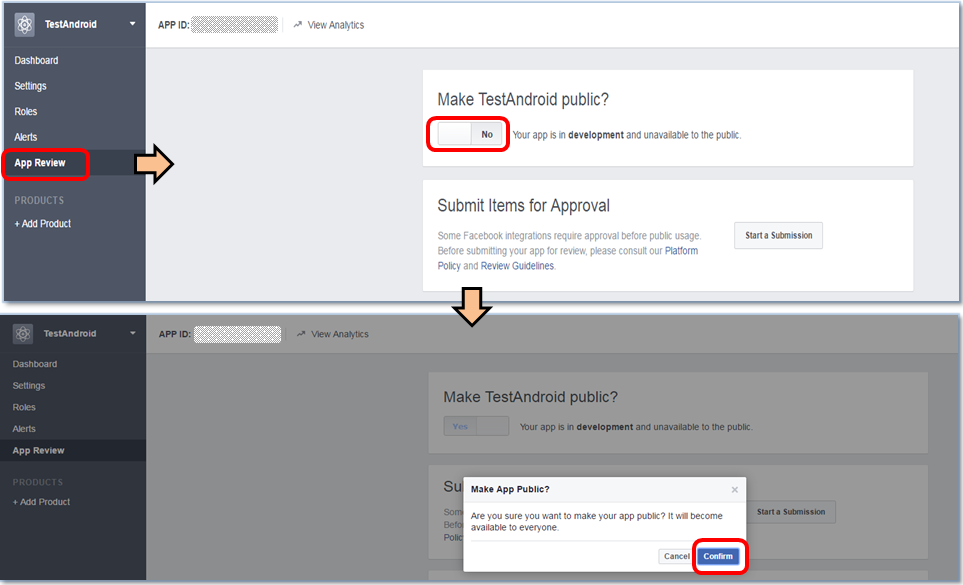
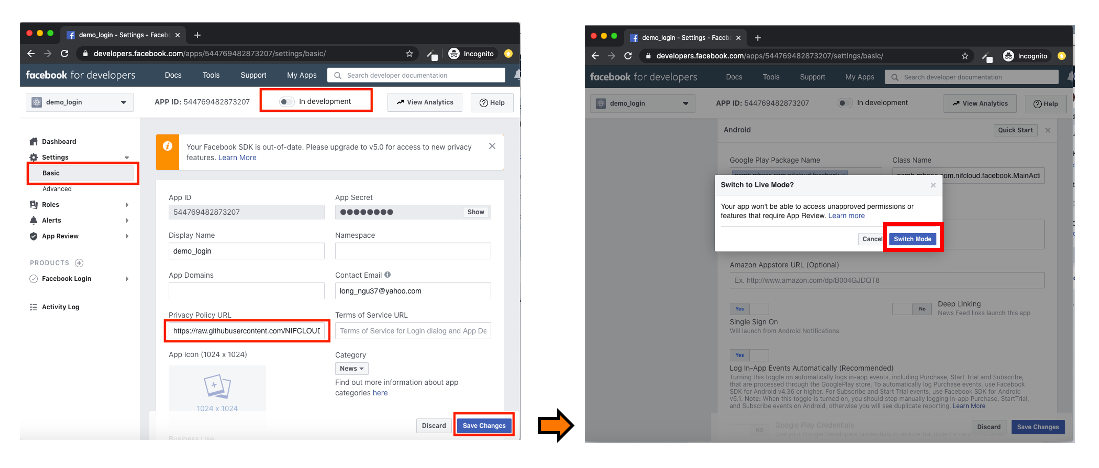
Update image

diff --git a/README.md b/README.md
@@ -91,7 +91,10 @@
 
 ![画像9](/readme-img/Screen9.png)
 
-* 最後に「アプリレビュー」をクリックし、「***アプリ名***を公開しますか？」を「***はい***」にしておきます。
+* 最後に「Basic」をクリックし、「Privacy policy URL」 を貼って、「Save」ボタンを押します。
+* その後、上の「In development」にSwitchしますし、ポップアップの「Switch mode」を選びます。
+これでアプリの公開は完了します。
+
 
 ![画像14](/readme-img/Screen14.png)
 
